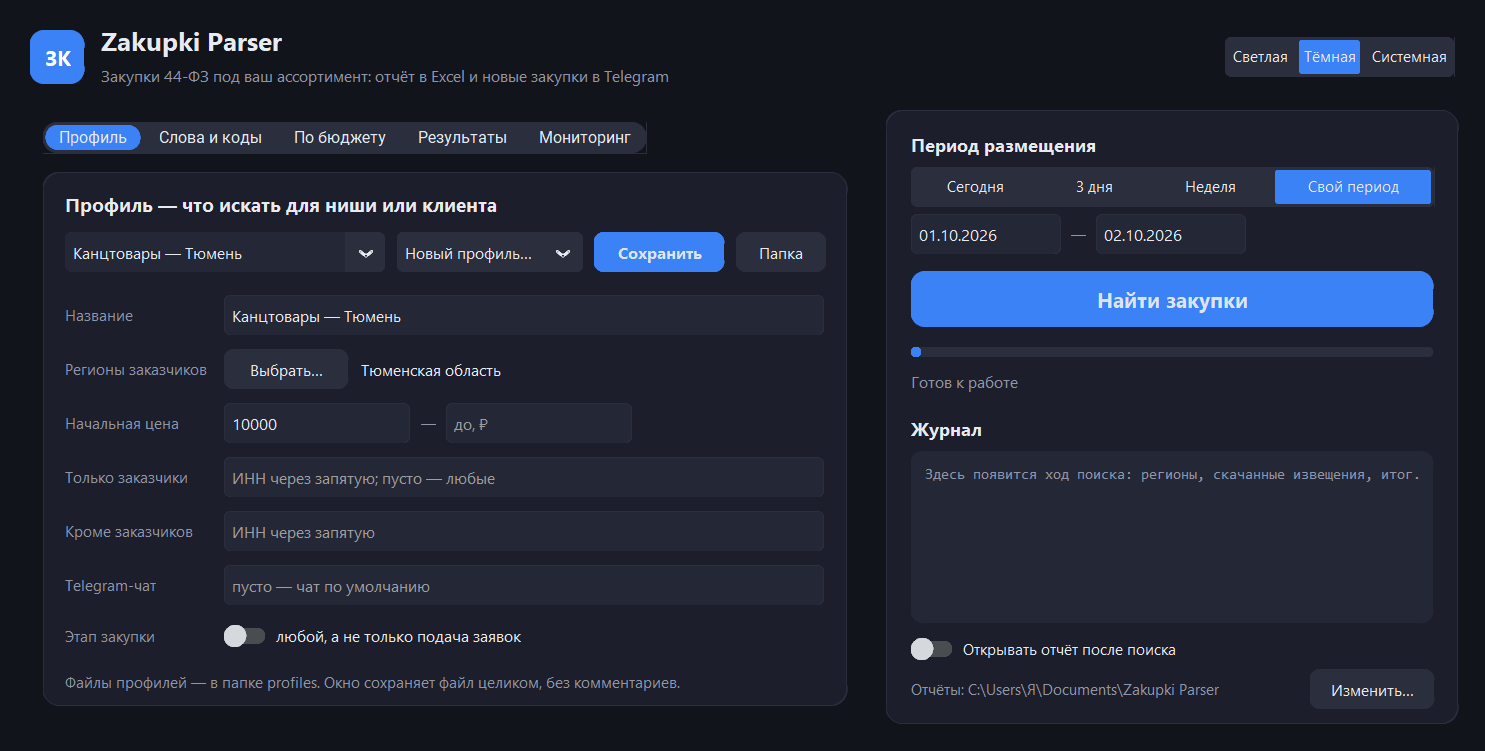
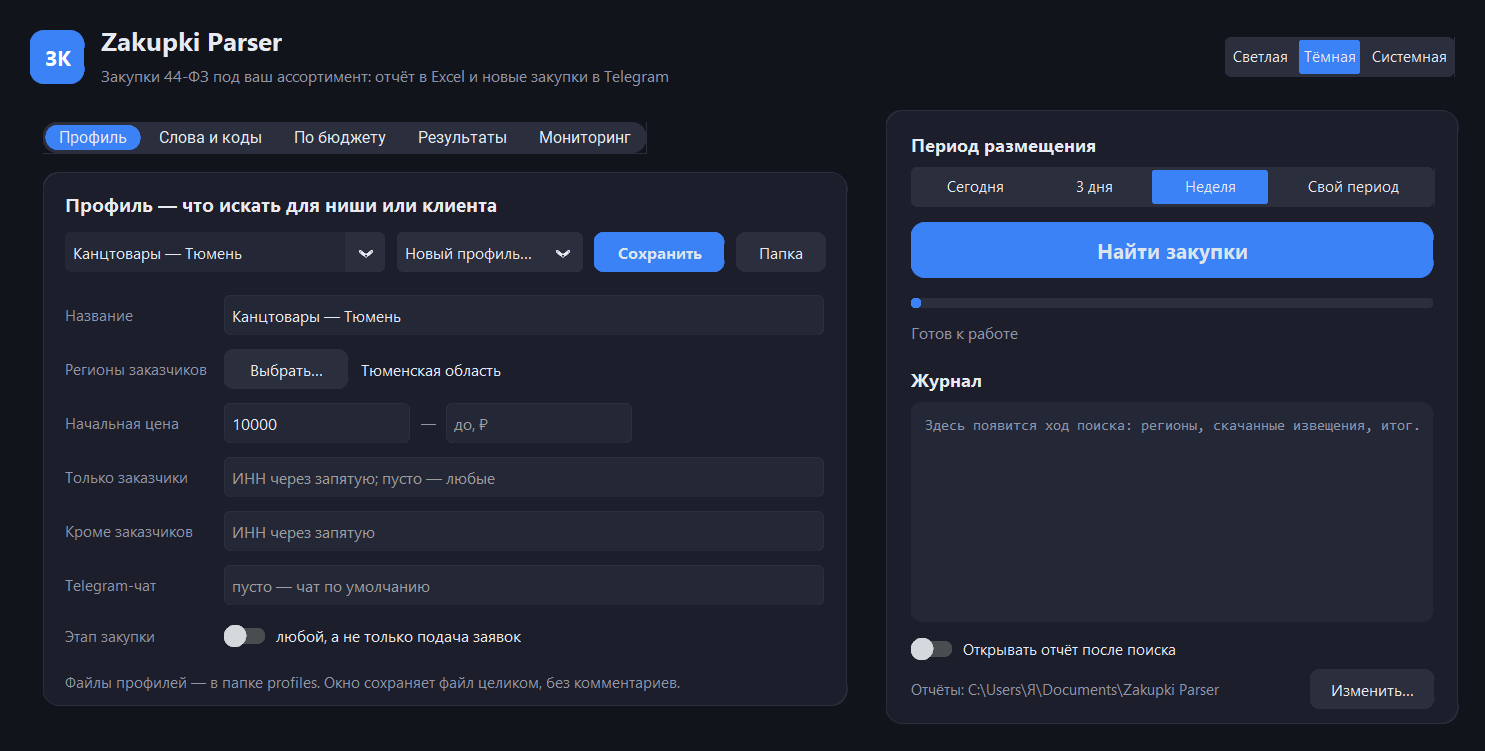
Скриншоты, GIF и текст релиза 0.8.0
GIF выгрузки по бюджету — главная картинка README (tools/record_demo.py снимает его
с живого окна), свежие скриншоты всех вкладок, ссылка на скачивание программы,
текст релиза в docs/release-notes. В тестах Telegram — нейтральные имя бота и чата.

diff --git a/tools/record_demo.py b/tools/record_demo.py
@@ -1,0 +1,106 @@
+"""Record the README/release GIF: an export of open notices by budget, from the click to the cards.
+
+Usage: python tools/record_demo.py OUTPUT.gif
+
+The window works on a temporary profiles folder (as tools/screenshot.py does) and asks the live site for the open
+notices of the Tyumen region at 1–5 mln ₽: three requests, a few seconds. Frames are taken every FRAME_MS while the
+export runs, then the result cards are scrolled. Identical frames in a row are merged into one longer frame.
+"""
+
+from __future__ import annotations
+
+import sys
+from pathlib import Path
+
+ROOT = Path(__file__).resolve().parents[1]
+sys.path.insert(0, str(ROOT))
+sys.path.insert(0, str(ROOT / "tools"))
+
+import window_capture  # noqa: E402
+from PIL import Image, ImageChops  # noqa: E402
+from screenshot import demo_profiles  # noqa: E402
+
+from zkparser.gui import app as window  # noqa: E402
+from zkparser.gui.app import App, setup_logging  # noqa: E402
+from zkparser.gui.widgets import set_entry  # noqa: E402
+
+FRAME_MS = 400
+WIDTH = 1100  # the GIF is scaled down to this width
+SCROLL_STEPS = 12
+
+
+def main() -> None:
+    output = Path(sys.argv[1])
+    setup_logging()
+    folder = demo_profiles()
+    window.profiles_dir = lambda: folder
+    App._refresh_monitoring = lambda _app: None  # no real bot name on a public picture
+    app = App()
+    app.appearance.set("Светлая")
+    app._set_appearance("Светлая")
+    app.period.set("Неделя")
+    app._refresh_period()
+    app.open_report_switch.deselect()
+    app.prefs.output_dir = str(Path(window.default_output_dir()) / "demo")
+    app.export_regions = ["72000000000"]
+    app._show_export_regions()
+    set_entry(app.export_price_from, "1 000 000")
+    set_entry(app.export_price_to, "5 000 000")
+    set_entry(app.export_words, "")
+    app.export_filter.set(window.ALL_NOTICES)
+    app.export_details.deselect()
+    app.tabs.set("По бюджету")
+    frames: list[Image.Image] = []
+
+    def grab() -> None:
+        app.update()
+        frames.append(window_capture.capture(app))
+
+    def before() -> None:
+        for _ in range(4):  # the form for a moment before the click
+            grab()
+        app._start_export()
+        app.after(FRAME_MS, running)
+
+    def running() -> None:
+        grab()
+        if app._busy() or len(frames) < 8:
+            app.after(FRAME_MS, running)
+        else:
+            app.after(1500, results)
+
+    def results(step: int = 0) -> None:
+        grab()
+        if step < 4:  # the first cards for a while
+            app.after(FRAME_MS, lambda: results(step + 1))
+        elif step < 4 + SCROLL_STEPS:
+            app.results_list._parent_canvas.yview_moveto((step - 3) * 0.02)
+            app.after(FRAME_MS, lambda: results(step + 1))
+        else:
+            for _ in range(4):
+                grab()
+            app.destroy()
+
+    app.after(2500, before)
+    app.mainloop()
+    save_gif(frames, output)
+    print(f"{output}: {len(frames)} кадров, {output.stat().st_size // 1024} КБ")
+
+
+def save_gif(frames: list[Image.Image], output: Path) -> None:
+    scaled = [frame.resize((WIDTH, round(frame.height * WIDTH / frame.width)), Image.LANCZOS) for frame in frames]
+    merged: list[tuple[Image.Image, int]] = []
+    for frame in scaled:
+        if merged and ImageChops.difference(frame, merged[-1][0]).getbbox() is None:
+            merged[-1] = (merged[-1][0], merged[-1][1] + FRAME_MS)
+        else:
+            merged.append((frame, FRAME_MS))
+    images = [frame.convert("P", palette=Image.ADAPTIVE, colors=128) for frame, _ in merged]
+    durations = [duration for _, duration in merged]
+    durations[-1] = 2500  # rest on the last frame before the loop starts again
+    output.parent.mkdir(parents=True, exist_ok=True)
+    images[0].save(output, save_all=True, append_images=images[1:], duration=durations, loop=0, optimize=True)
+
+
+if __name__ == "__main__":
+    main()

diff --git a/tools/screenshot.py b/tools/screenshot.py
@@ -69,7 +69,9 @@ def main() -> None:
     app = App()
     if tab == "Мониторинг":
         app.bot_status.configure(text="Бот @tenders_demo_bot · чат по умолчанию задан")
-        app.schedule_status.configure(text="Проверки по расписанию включены. Следующая: 05.10.2026 10:00.")
+        app.schedule_status.configure(text="Проверки по расписанию включены. Следующая: 07.10.2026 10:00.\n"
+                                           "Бот: слушает кнопки, последняя связь 06.10 19:31\n"
+                                           "За 7 дней прислано 14: ✅ беру 3 · ❌ не моё 1 · без отметки 10")
         for var in app.monitored_vars.values():
             var.set(True)
     if tab == "По бюджету":  # the same example as in the README, whatever the window remembers
@@ -78,6 +80,10 @@ def main() -> None:
         set_entry(app.export_price_from, "1000000")
         set_entry(app.export_price_to, "5000000")
         set_entry(app.export_words, "")
+        app.export_filter.set(window.ALL_NOTICES)
+        app.export_details.deselect()
+    app.period.set("Неделя")  # not the custom dates the window may remember
+    app._refresh_period()
     choice = "Светлая" if appearance == "light" else "Тёмная"
     app.appearance.set(choice)
     app._set_appearance(choice)

diff --git a/docs/release-notes/v0.8.0.md b/docs/release-notes/v0.8.0.md
@@ -1,0 +1,64 @@
+## Закупки 44-ФЗ под ваш ассортимент — в Telegram и Excel
+
+Zakupki Parser находит на [zakupki.gov.ru](https://zakupki.gov.ru) закупки под ваш товар или услугу, присылает
+их в Telegram карточкой с кнопками и складывает в Excel с объяснением, почему каждая подошла. Регистрация,
+токен и электронная подпись не нужны.
+
+![Выгрузка открытых закупок по бюджету: от нажатия до карточек](https://github.com/krein15/zakupki-parser/raw/v0.8.0/docs/screenshots/demo-export.gif)
+
+### Что умеет
+
+- **Отбор как у человека, а не по одному слову.** Ключевые и минус-слова со словоформами, коды ОКПД2 и КТРУ,
+  проверка не только названия, но и каждой позиции: «Поставка бумаги и картона» найдётся по позиции «Бумага для
+  офисной техники». У каждой закупки — почему она подошла.
+- **Карточка в Telegram вместо простыни текста.** Цена, срок с кружком «сколько осталось», заказчик, что именно
+  покупают и сколько — и кнопки «✅ Беру», «❌ Не моё», «Открыть в ЕИС». По понедельникам — итоги недели
+  с точностью отбора: какая доля присланного действительно пошла в работу.
+- **Только открытые закупки.** Сайт ЕИС годами держит этап «Подача заявок» у закрытых закупок: в Тюменской
+  области на 1–5 млн ₽ из 855 таких 749 давно закрыты. Программа сама сверяет срок подачи — в отчёт попадает
+  только то, на что ещё можно подать заявку.
+- **Выгрузка по бюджету и по нише.** Регионы и цена «от и до» — и все открытые закупки в Excel за пару секунд;
+  с нишей — только подходящие, с колонкой «Почему подошла».
+- **Аудит набора ключевых слов.** Ваши слова и эталон ниши проверяют одни и те же закупки за неделю: что найдено,
+  сколько из этого мусор, какие подходящие закупки вы не видите и на какую сумму.
+- **12 готовых ниш:** канцтовары, лекарства, медизделия, топливо, продукты, компьютеры, мебель, хозтовары,
+  спецодежда, уборка, стройматериалы, IT-услуги — слова и коды проверены на реальных закупках.
+
+| Профиль | Карточки результатов | Мониторинг и бот |
+|---|---|---|
+| ![Профиль](https://github.com/krein15/zakupki-parser/raw/v0.8.0/docs/screenshots/app-light.png) | ![Результаты](https://github.com/krein15/zakupki-parser/raw/v0.8.0/docs/screenshots/app-results.png) | ![Мониторинг](https://github.com/krein15/zakupki-parser/raw/v0.8.0/docs/screenshots/app-monitoring.png) |
+
+### Надёжно
+
+- **Протокол падения.** Упал бот — вам сообщение с причиной и перезапуск через минуту; пропал процесс —
+  Планировщик Windows поднимает его за 5 минут; сайт ЕИС или Telegram недоступны — одно предупреждение
+  и одно «снова работает», без спама. Клиентам технические сообщения не уходят.
+- **Без пропусков и повторов.** После выключенного компьютера приходят закупки за пропущенные дни, о каждой
+  закупке — один раз.
+- **Бережно к сайту:** пауза 2,5 секунды между запросами, соблюдение просьб подождать.
+- **Секреты не утекают:** токен бота только в `.env`, вырезается из журналов и сообщений об ошибках.
+
+### Как начать
+
+1. Скачайте **ZakupkiParser-0.8.0-windows.zip** ниже и распакуйте в любую папку. Python не нужен.
+2. Запустите `ZakupkiParser.exe`. Windows может предупредить о неизвестном издателе (программа не подписана
+   сертификатом): «Подробнее» → «Выполнить в любом случае».
+3. «Новый профиль…» → шаблон своей ниши → регионы → «Найти закупки». Отчёт Excel — в `Документы\Zakupki Parser`.
+4. Для Telegram: создайте бота у @BotFather, вставьте токен в `.env` (кнопка «Открыть .env»), напишите боту,
+   нажмите «Найти мой чат» и «Включить» на вкладке «Мониторинг».
+
+Командная строка и все параметры — в [README](https://github.com/krein15/zakupki-parser#readme).
+
+### Новое в 0.8
+
+- Карточки закупок в Telegram с кнопками «Беру / Не моё», бот с командами `/start` и `/stats`, итоги недели.
+- Протокол падения бота и проверок; задача «Бот» в Планировщике включается вместе с мониторингом.
+- Аудит набора ключевых слов (`audit`): Excel «Итоги / Пропущено / Мусор / Совпало / Слова».
+- Выгрузка открытых закупок по бюджету (`export`), в том числе только по нише (`--template`, `--profile`);
+  в окне — вкладка «По бюджету».
+- Закупки с прошедшим сроком помечаются «Приём заявок окончен» и стоят после открытых.
+- Шаблон «IT-услуги и разработка ПО»: из 490 IT-закупок отсеяна перепродажа лицензий (264), отобрано 113 услуг.
+- Программа с параметрами больше не падает на «₽» при выводе в файл.
+
+Под капотом: Python 3.13, customtkinter, lxml, pymorphy3, openpyxl; 345 тестов на сохранённых страницах ЕИС
+и обезличенных извещениях, проверка в GitHub Actions.

diff --git a/README.md b/README.md
@@ -12,7 +12,9 @@
 
 [Пример отчёта](docs/example/example-report.xlsx) — 14 закупок канцтоваров в Тюменской области за сентябрь 2026.
 
-![Окно программы: найденные закупки и почему они подошли](docs/screenshots/app-results.png)
+![Выгрузка открытых закупок по бюджету: от нажатия до карточек](docs/screenshots/demo-export.gif)
+
+[Скачать программу для Windows](https://github.com/krein15/zakupki-parser/releases/latest) — Python не нужен.
 
 ## Окно
 
@@ -39,9 +41,9 @@ python app.py
   по щелчку на название открывается закупка в ЕИС.
 - **Мониторинг** — бот и чат Telegram, проверки по расписанию (включить, выключить, проверить сейчас), журнал.
 
-| Профиль | Мониторинг |
-|---|---|
-| ![Профиль](docs/screenshots/app-light.png) | ![Мониторинг](docs/screenshots/app-monitoring.png) |
+| Профиль | Результаты | Мониторинг |
+|---|---|---|
+| ![Профиль](docs/screenshots/app-light.png) | ![Результаты](docs/screenshots/app-results.png) | ![Мониторинг](docs/screenshots/app-monitoring.png) |
 
 Тёмная тема переключается в шапке:
 
